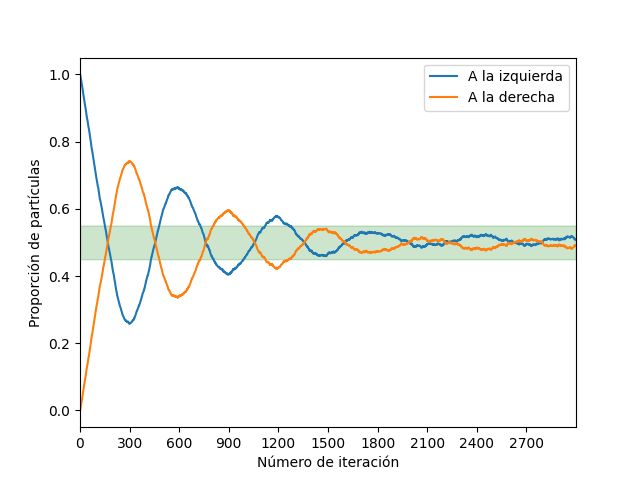
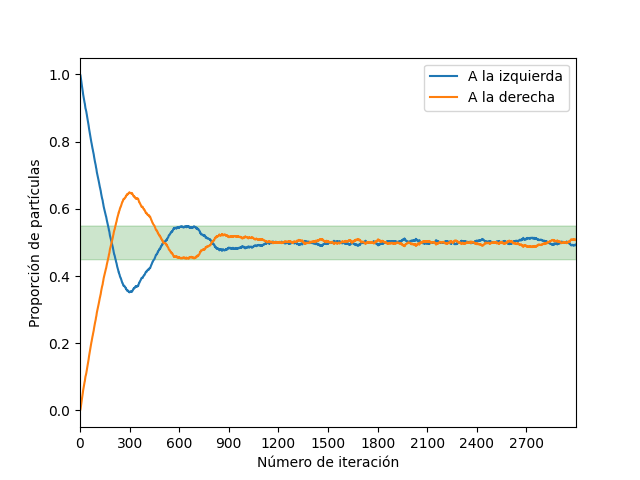
Re-simulating and regenerating graphs.

Changed region(s): [[0.125, 0.25, 0.9062, 0.7812]]

diff --git a/tp2/src/main/java/BenchmarkGenerator.java b/tp2/src/main/java/BenchmarkGenerator.java
@@ -7,9 +7,9 @@ import java.util.stream.Collectors;
 
 public class BenchmarkGenerator {
 
-    private final static int[] particlesArray = {2000,3000,5000};
+    private final static int[] particlesArray = {2000,3000,4000,5000,6000,7000,8000,9000};
     private final static int[] gapSizes = {50};
-    private final static int N_ITERATIONS = 20;
+    private final static int N_ITERATIONS = 10;
     private final static double EPSILON = 0.05;
     private final static int MAX_ITER = 3000;
 
@@ -59,9 +59,9 @@ public class BenchmarkGenerator {
                     }
                 }
             }
-            if (i % 100 == 0) {
-                System.out.println("left particles: " + currentGrid.getLeftParticles());
-            }
+//            if (i % 100 == 0) {
+//                System.out.println("left particles: " + currentGrid.getLeftParticles());
+//            }
             currentGrid = currentGrid.getNextGrid();
         }
         bf.close();
@@ -72,7 +72,7 @@ public class BenchmarkGenerator {
         for (int particlesQuantity : particlesArray) {
             Grid firstGrid = new Grid(particlesQuantity, gap,EPSILON);
             for (int i = 0; i < iterations; i++) {
-                String filename = String.format("%s_d%d_n%d_i%d.csv", "tp2/out/output", gap, particlesQuantity, i);
+                String filename = String.format("%s_d%d_n%d_i%d.csv", "tp2/out/secondItemVaryingN", gap, particlesQuantity, i);
                 if(REGENERATE_GRID){
                     firstGrid= new Grid(particlesQuantity,gap,EPSILON);
                 }

diff --git a/tp2/out/fixedParticleVsTime.py b/tp2/out/fixedParticleVsTime.py
@@ -6,8 +6,8 @@ epsilon = 0.05
 if __name__ == '__main__':
 
     path = r'/home/shadad/Desktop/tp2pod/simulacion-de-sistemas/tp2/out'
-    for particle_number in [2000, 3000, 5000]:
-        regex = '*output_d50_n' + str(particle_number) + '_i1_aggregate.csv'
+    for particle_number in [2000, 3000, 4000, 5000, 6000, 7000, 8000, 9000]:
+        regex = '*secondItemVaryingN*n' + str(particle_number) + '_i0_aggregate.csv'
         files = Path(path).glob(regex)
         upper = []
         lower = []
@@ -16,6 +16,10 @@ if __name__ == '__main__':
             lower.append(0.5 - epsilon)
 
         dfs = [pd.read_csv(f) for f in files]
+        if len(dfs) == 0:
+            print("xchau")
+            break
+
         data_frame = dfs[0]
         total_particle = data_frame["left_particle"] + data_frame["right_particle"]
         left_particle_ratio = data_frame["left_particle"] / particle_number
@@ -27,5 +31,5 @@ if __name__ == '__main__':
         plt.fill_between([i for i in range(3000)], lower, upper, color='green', alpha=0.2)
         plt.legend()
         # plt.title("Proporción de partículas en cada lado respecto del tiempo")
-        plt.savefig("./plots/FixedTimeRatioN_"+str(particle_number) + '.png')
+        plt.savefig("./plots/SecondFixedTimeRatioN_"+str(particle_number) + '.png')
         plt.clf()

diff --git a/tp2/src/main/java/Main.java b/tp2/src/main/java/Main.java
@@ -8,13 +8,13 @@ import java.util.stream.Collectors;
 public class Main {
 
     public static void main(String[] args) throws IOException{
-        Main.run(10000,2000);
+        Main.run(3000,5000);
     }
 
     public static void run(int maxIter, int nParticles) throws IOException {
-        Grid currentGrid = new Grid(nParticles, 50,0.03);
+        Grid currentGrid = new Grid(nParticles, 200,0.05);
 
-        File csv = new File("outputMain.csv");
+        File csv = new File("changing3ParticlesRule_d2000_n5000_i0.csv");
         if (!csv.exists() && !csv.createNewFile()) {
             throw new IOException("Unable to create output.csv");
         }
@@ -25,7 +25,7 @@ public class Main {
         final String FORMAT = "%s,%s,%s,%s\n";
         bf.write(header);
         Cell[][] cells;
-        for (int i = 0; i < maxIter && !currentGrid.isEquilibrated() ; i++) {
+        for (int i = 0; i < maxIter /*&& !currentGrid.isEquilibrated()*/ ; i++) {
             cells = currentGrid.getCells();
             for (int j = 0; j < cells.length; j++) {
                 for (int k = 0; k < cells.length; k++) {

diff --git a/tp2/out/particleNumberVariableWithErrorFirtsInEquilibrium.py b/tp2/out/particleNumberVariableWithErrorFirtsInEquilibrium.py
@@ -11,7 +11,7 @@ if __name__ == '__main__':
     for particle_number in [2000, 3000, 4000, 5000, 6000, 7000, 8000, 9000]:
         particle_interval_upper = (particle_number / 2) + (particle_number * epsilon)
         particle_interval_lower = (particle_number / 2) - (particle_number * epsilon)
-        regex = 'outputThirdLap_d50_n' + str(particle_number) + '_i*_aggregate.csv'
+        regex = 'secondItemVaryingN_d50_n' + str(particle_number) + '_i*_aggregate.csv'
         files = Path(path).glob(regex)
         particle_equilibrium_map[particle_number] = []
         for f in files:
@@ -30,7 +30,6 @@ if __name__ == '__main__':
     plt.errorbar(gaps, [v[0] for v in equilibrium_index], yerr=[[v[1] for v in equilibrium_index]], fmt='o', capsize=5)
     plt.xlabel('Número inicial de particulas')
     plt.ylabel('Número de iteraciones hasta equilibrio')
-    plt.yticks(np.arange(0, 3600, 300))
-    plt.savefig("VaryingNVsTimeWithErrorBarFirstInEquilibrium.PNG")
+    plt.savefig("./plots/VaryingNVsTimeWithErrorBarFirstInEquilibrium.PNG")
 
 

diff --git a/tp2/out/variableGapWithErrorBarFirstEquilibrium.py b/tp2/out/variableGapWithErrorBarFirstEquilibrium.py
@@ -13,7 +13,7 @@ gap_equilibrium_map = {}
 if __name__ == '__main__':
     path = r'/home/shadad/Desktop/tp2pod/simulacion-de-sistemas/tp2/out'
     for gap in [25, 50, 75, 100, 125, 150, 175, 200]:
-        regex = 'outputSecondLap_d' + str(gap) + '_n5000_i*_aggregate.csv'
+        regex = 'secondItemVaryingGap_d' + str(gap) + '_n5000_i*_aggregate.csv'
         files = Path(path).glob(regex)
         gap_equilibrium_map[gap] = []
         for f in files:
@@ -32,6 +32,6 @@ if __name__ == '__main__':
     plt.errorbar(gaps, [v[0] for v in equilibrium_index], yerr=[[v[1] for v in equilibrium_index]], fmt='o', capsize=5)
     plt.xlabel('Tamaño del tabique (Cantidad de celdas)')
     plt.ylabel('Numero de iteraciones hasta equilibrio')
-    plt.savefig("GapVsTimeWithErrorBarFirstEquilibrium.PNG")
+    plt.savefig("./plots/GapVsTimeWithErrorBarFirstEquilibrium.PNG")
 
 

diff --git a/tp2/src/main/java/leftRightAggregator.java b/tp2/src/main/java/leftRightAggregator.java
@@ -15,7 +15,7 @@ public class leftRightAggregator {
         String directory = "/home/shadad/Desktop/tp2pod/simulacion-de-sistemas/tp2/out";
         try (DirectoryStream<Path> stream = Files.newDirectoryStream(Paths.get(directory))) {
             for (Path file : stream) {
-                if(!file.toString().contains("aggregate") && Files.isRegularFile(file)) {
+                if(file.toString().contains("secondItemVaryingN") && !file.toString().contains("aggregate") && Files.isRegularFile(file)) {
                    System.out.println(file);
                     run(file.toString());
                 }

diff --git a/tp2/src/main/java/CommonCell.java b/tp2/src/main/java/CommonCell.java
@@ -28,6 +28,9 @@ public class CommonCell extends Cell{
         double yMomentum = Velocity.yMomentum(velocityList);
         int size = this.particleSet.size();
         if((xMomentum != 0 || yMomentum != 0) || size == 6 || size == 0) {
+            if(size == 3 ){
+                return new CommonCell(rotateParticles(4));
+            }
             return new CommonCell(this.particleSet);
         } else {
             int random = size == 3 ? 0 : this.random;

diff --git a/tp2/out/FixedParticleVsTimeGapVary.py b/tp2/out/FixedParticleVsTimeGapVary.py
@@ -10,7 +10,7 @@ if __name__ == '__main__':
     current_index = 0
     path = r'/home/shadad/Desktop/tp2pod/simulacion-de-sistemas/tp2/out'
     for gap in [25, 50, 75, 100, 125, 150, 175, 200]:
-        regex = 'outputSecondLap_d' + str(gap) + '_n5000_i0_aggregate.csv'
+        regex = 'secondItemVaryingGap_d' + str(gap) + '_n5000_i0_aggregate.csv'
         files = Path(path).glob(regex)
 
         upper = []

diff --git a/tp2/src/main/java/Velocity.java b/tp2/src/main/java/Velocity.java
@@ -19,7 +19,7 @@ public enum Velocity {
     }
 
     public Velocity rotateClockwise(int steps) {
-        if( (steps != 1 && steps != 2 && steps != 3) )
+        if( (steps != 1 && steps != 2 && steps != 3 && steps!= 4) )
             throw new InvalidParameterException("Invalid step provided");
         int valuesLength = Velocity.values().length;
         int currentIndex = this.ordinal();
